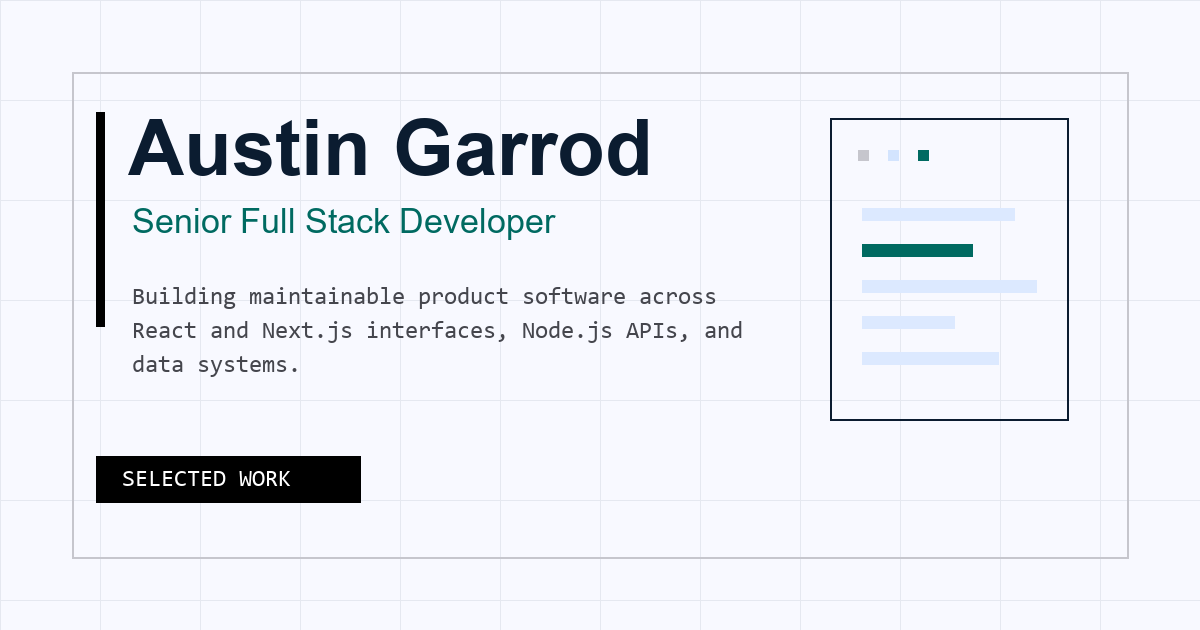
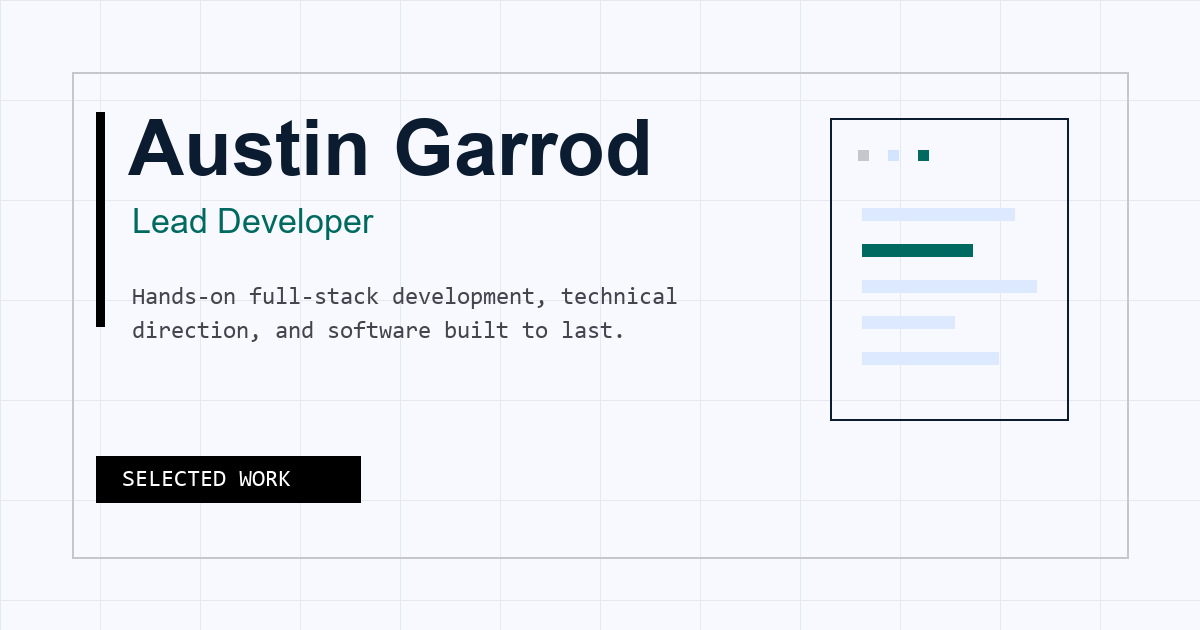
Reflect Lead Developer promotion and refresh portfolio copy

diff --git a/src/data/profile.ts b/src/data/profile.ts
@@ -14,7 +14,6 @@ export type Profile = {
   github: string;
   linkedin: string;
   resume: string;
-  availability: string;
   tagline: string;
   intro: string;
   seoDescription: string;
@@ -44,6 +43,7 @@ export type Experience = {
   employmentType?: string;
   summary: string;
   bullets: string[];
+  progression?: string;
 };
 
 export type CaseStudySection = {

diff --git a/src/data/seo.ts b/src/data/seo.ts
@@ -24,6 +24,8 @@ const breadcrumbLabels: Record<string, string> = {
 };
 
 const knowsAbout = [
+  "Technical leadership",
+  "Software architecture",
   "Full-stack engineering",
   "Frontend architecture",
   "Backend API development",

diff --git a/scripts/generate-assets.py b/scripts/generate-assets.py
@@ -162,7 +162,7 @@ def enrich_resume_pdf(path: Path, profile):
             "/Title": f"{profile['name']} Resume",
             "/Author": profile["name"],
             "/Subject": f"Resume for {profile['name']}, {profile['title']}",
-            "/Keywords": "senior full-stack developer, React, Next.js, TypeScript, Node.js, APIs, databases",
+            "/Keywords": f"{profile['title']}, full-stack development, technical leadership, React, TypeScript, Node.js, APIs, databases",
             "/Creator": "AustinGarrod.ca asset generator",
         }
     )
@@ -338,6 +338,8 @@ def generate_resume(data):
             story.append(paragraph(f"{job['role']} - {job['organization']}", role))
             job_meta = [job["dates"], job.get("employmentType"), job["location"]]
             story.append(paragraph(" | ".join(value for value in job_meta if value), body))
+            if job.get("progression"):
+                story.append(paragraph(job["progression"], body))
             for bullet in job["bullets"][:2]:
                 story.append(paragraph("- " + bullet, body))
 

diff --git a/AGENTS.md b/AGENTS.md
@@ -47,7 +47,7 @@ PHP CLI is not required for local Astro work; the contact form still needs a Hos
 
 ## Content Rules
 
-- Position Austin as a senior full-stack engineer, not as a consulting-heavy lead-generation brand.
+- Position Austin as a hands-on Lead Developer at Epilogue with full-stack engineering experience, not as a consulting-heavy lead-generation brand.
 - Keep private project case studies sanitized. Do not add private repo links, credentials, household details, client-sensitive details, or invented metrics.
 - Do not associate Austin with Open Design; he has no role or contributions to that project.
 - Do not present CAPM as currently active unless renewed after the listed April 2026 expiry.
